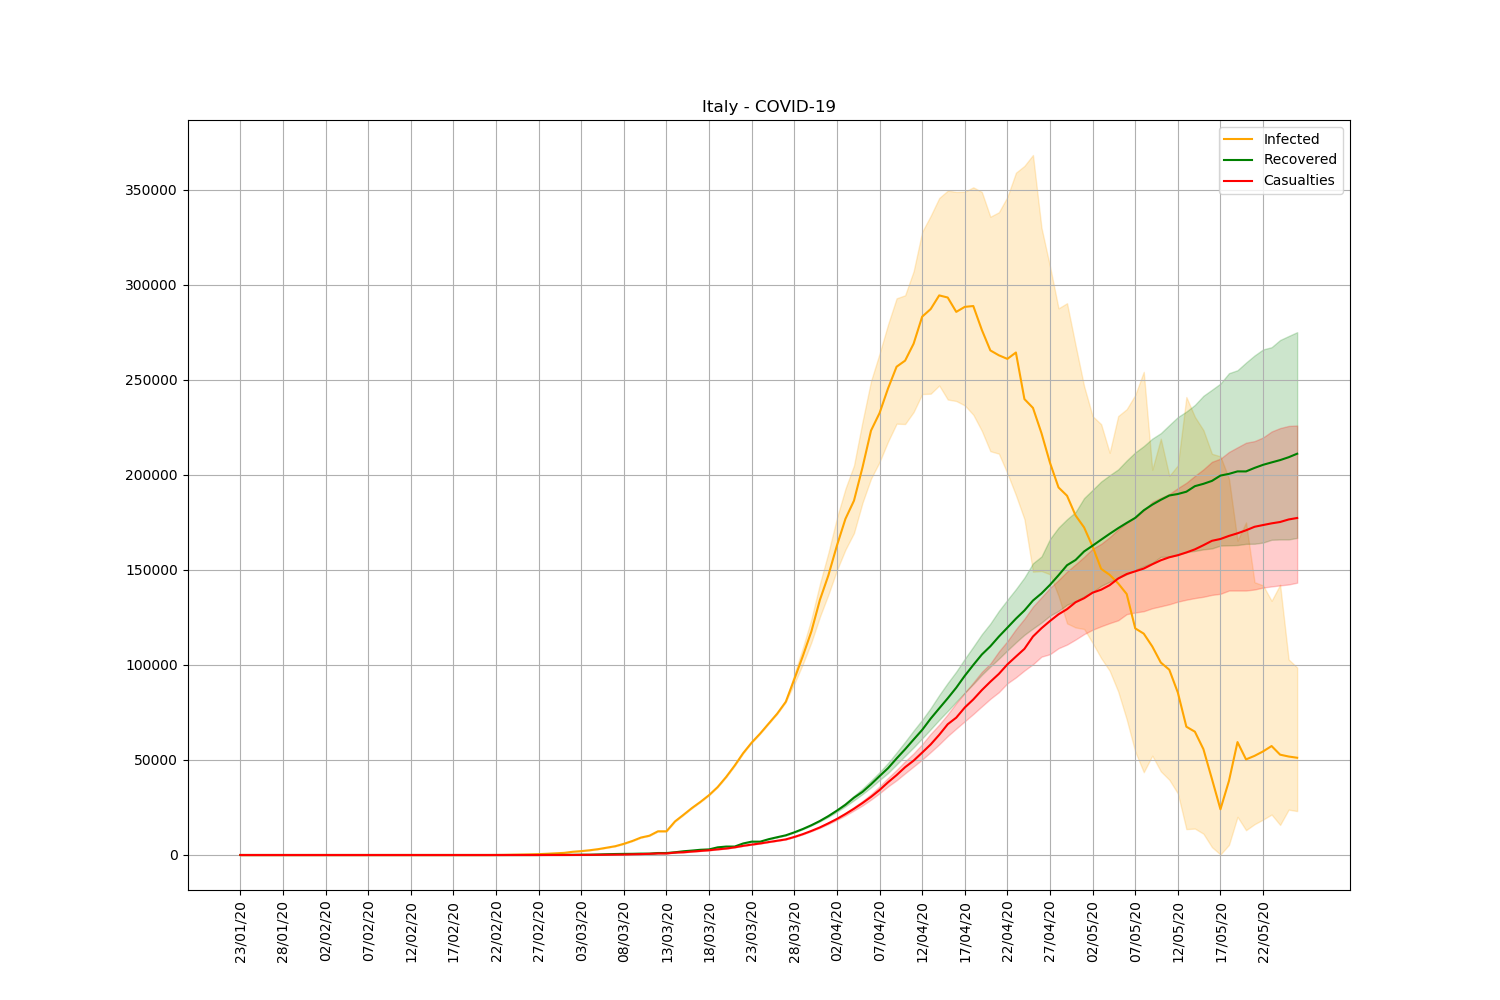
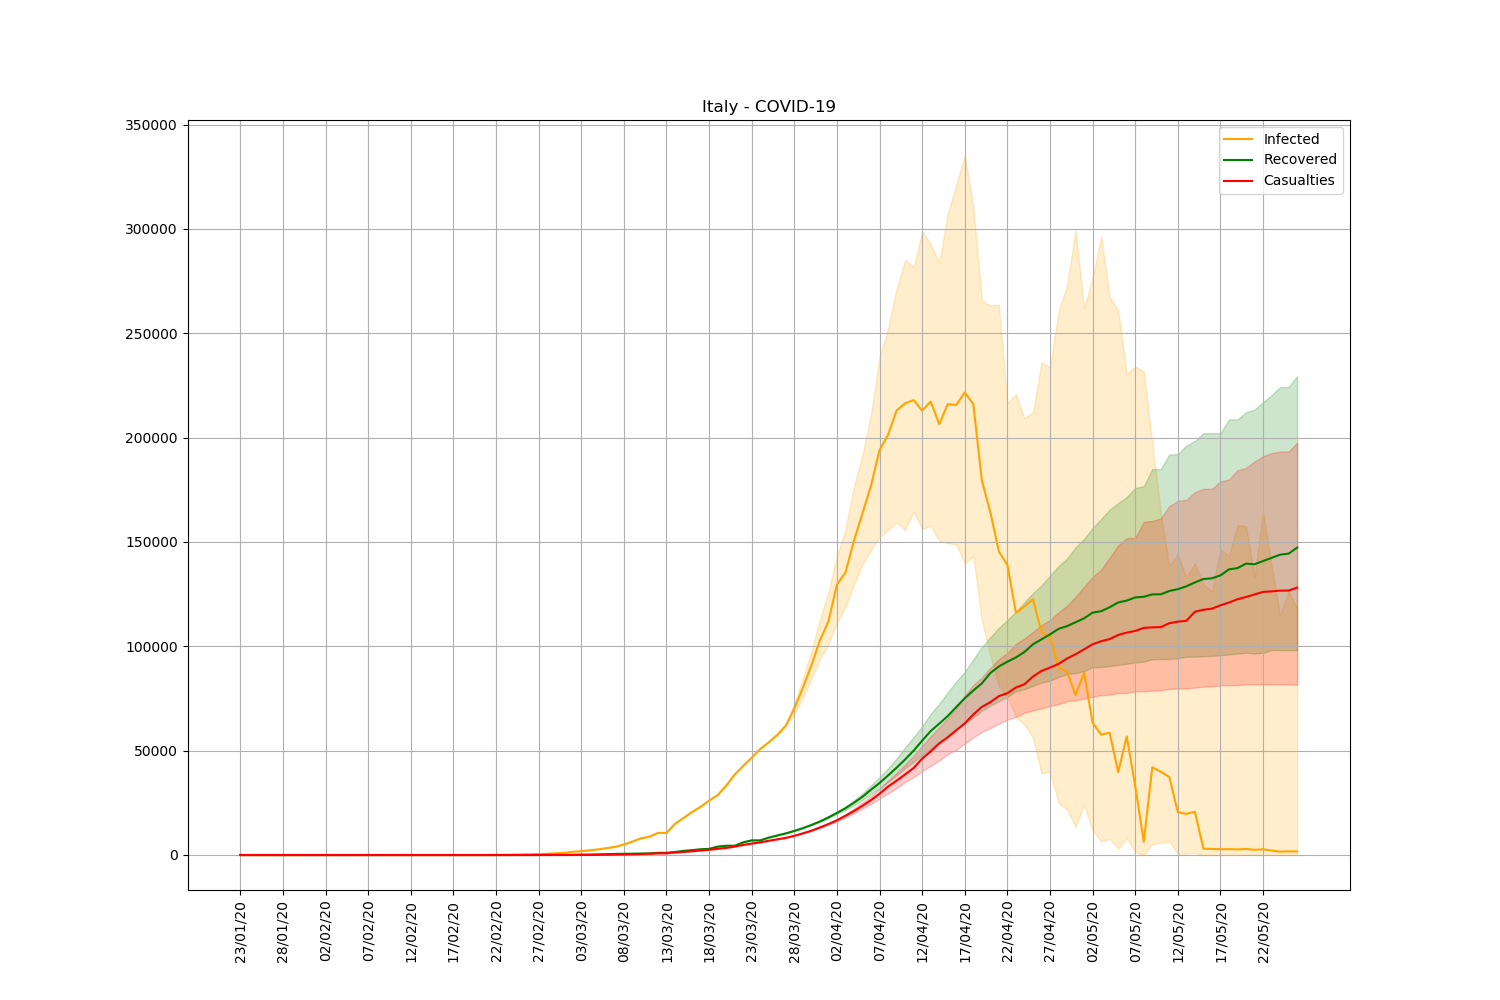
bugfix: infected was taking in account deaths and recovered

diff --git a/data/data.py b/data/data.py
@@ -67,7 +67,7 @@ def getDataset( init_population = None,
 
     susceptibles = np.zeros(confirmed.shape) * np.nan
     exposed = np.zeros(confirmed.shape) * np.nan
-    infectous = confirmed
+    infectous = confirmed - (recovered + casualties)
 
     if type == 'SEIR':
         # Return the SEIR data
